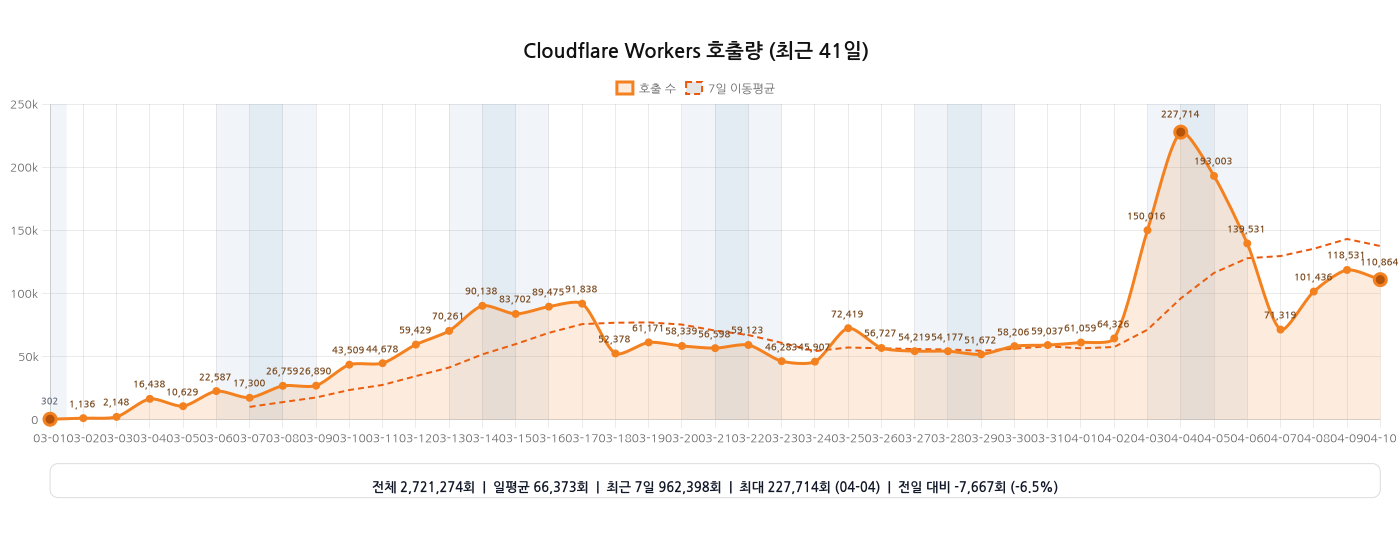
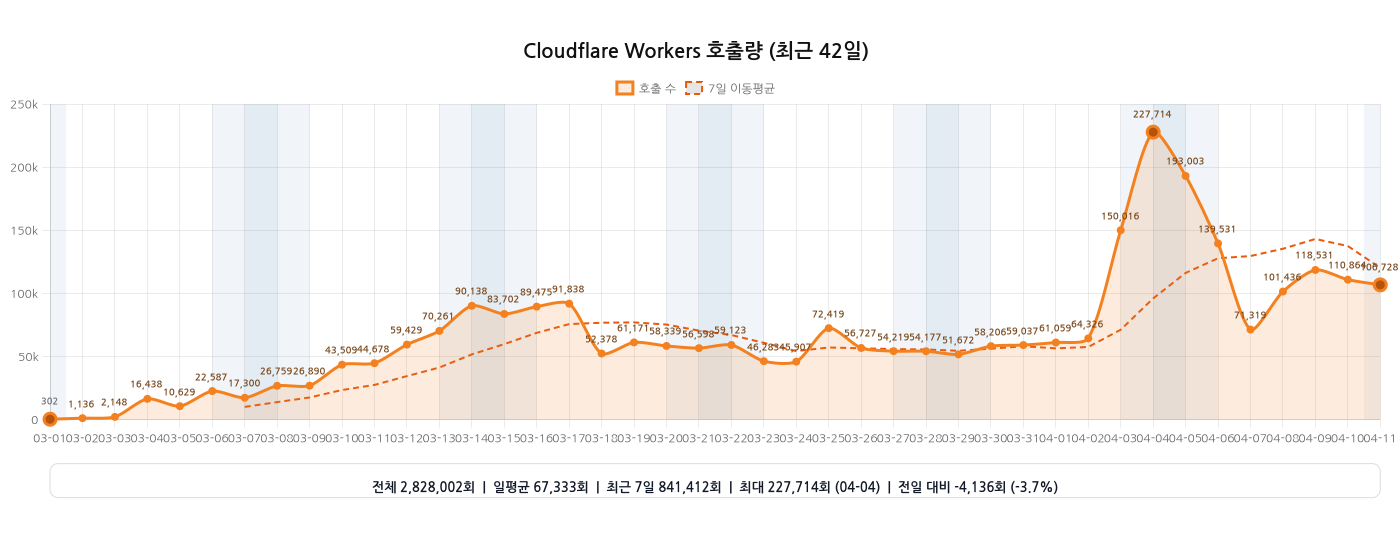
chore: 워커 호출량 그래프 자동 갱신

diff --git a/README.md b/README.md
@@ -18,11 +18,11 @@
 [![Coverage](https://github.com/hmmhmmhm/daiso-mcp/actions/workflows/coverage.yml/badge.svg?branch=main)](https://github.com/hmmhmmhm/daiso-mcp/actions/workflows/coverage.yml)
 
 <!-- WORKERS_INVOCATIONS_CHART:START -->
-<h3>Cloudflare Workers 호출량 (2026-03-01 ~ 2026-04-10, 41일)</h3>
+<h3>Cloudflare Workers 호출량 (2026-03-01 ~ 2026-04-11, 42일)</h3>
 
-<img src="./assets/analytics/workers-invocations.png?v=2026-04-10T15:38:21.738Z" alt="Cloudflare Workers 호출량 그래프 (2026-03-01 ~ 2026-04-10)" width="100%">
+<img src="./assets/analytics/workers-invocations.png?v=2026-04-11T15:32:34.199Z" alt="Cloudflare Workers 호출량 그래프 (2026-03-01 ~ 2026-04-11)" width="100%">
 
-<sub>기준 워커: <code>daiso-mcp</code> · 마지막 갱신: 2026-04-11 00:38 KST</sub>
+<sub>기준 워커: <code>daiso-mcp</code> · 마지막 갱신: 2026-04-12 00:32 KST</sub>
 
 <!-- WORKERS_INVOCATIONS_CHART:END -->
 
